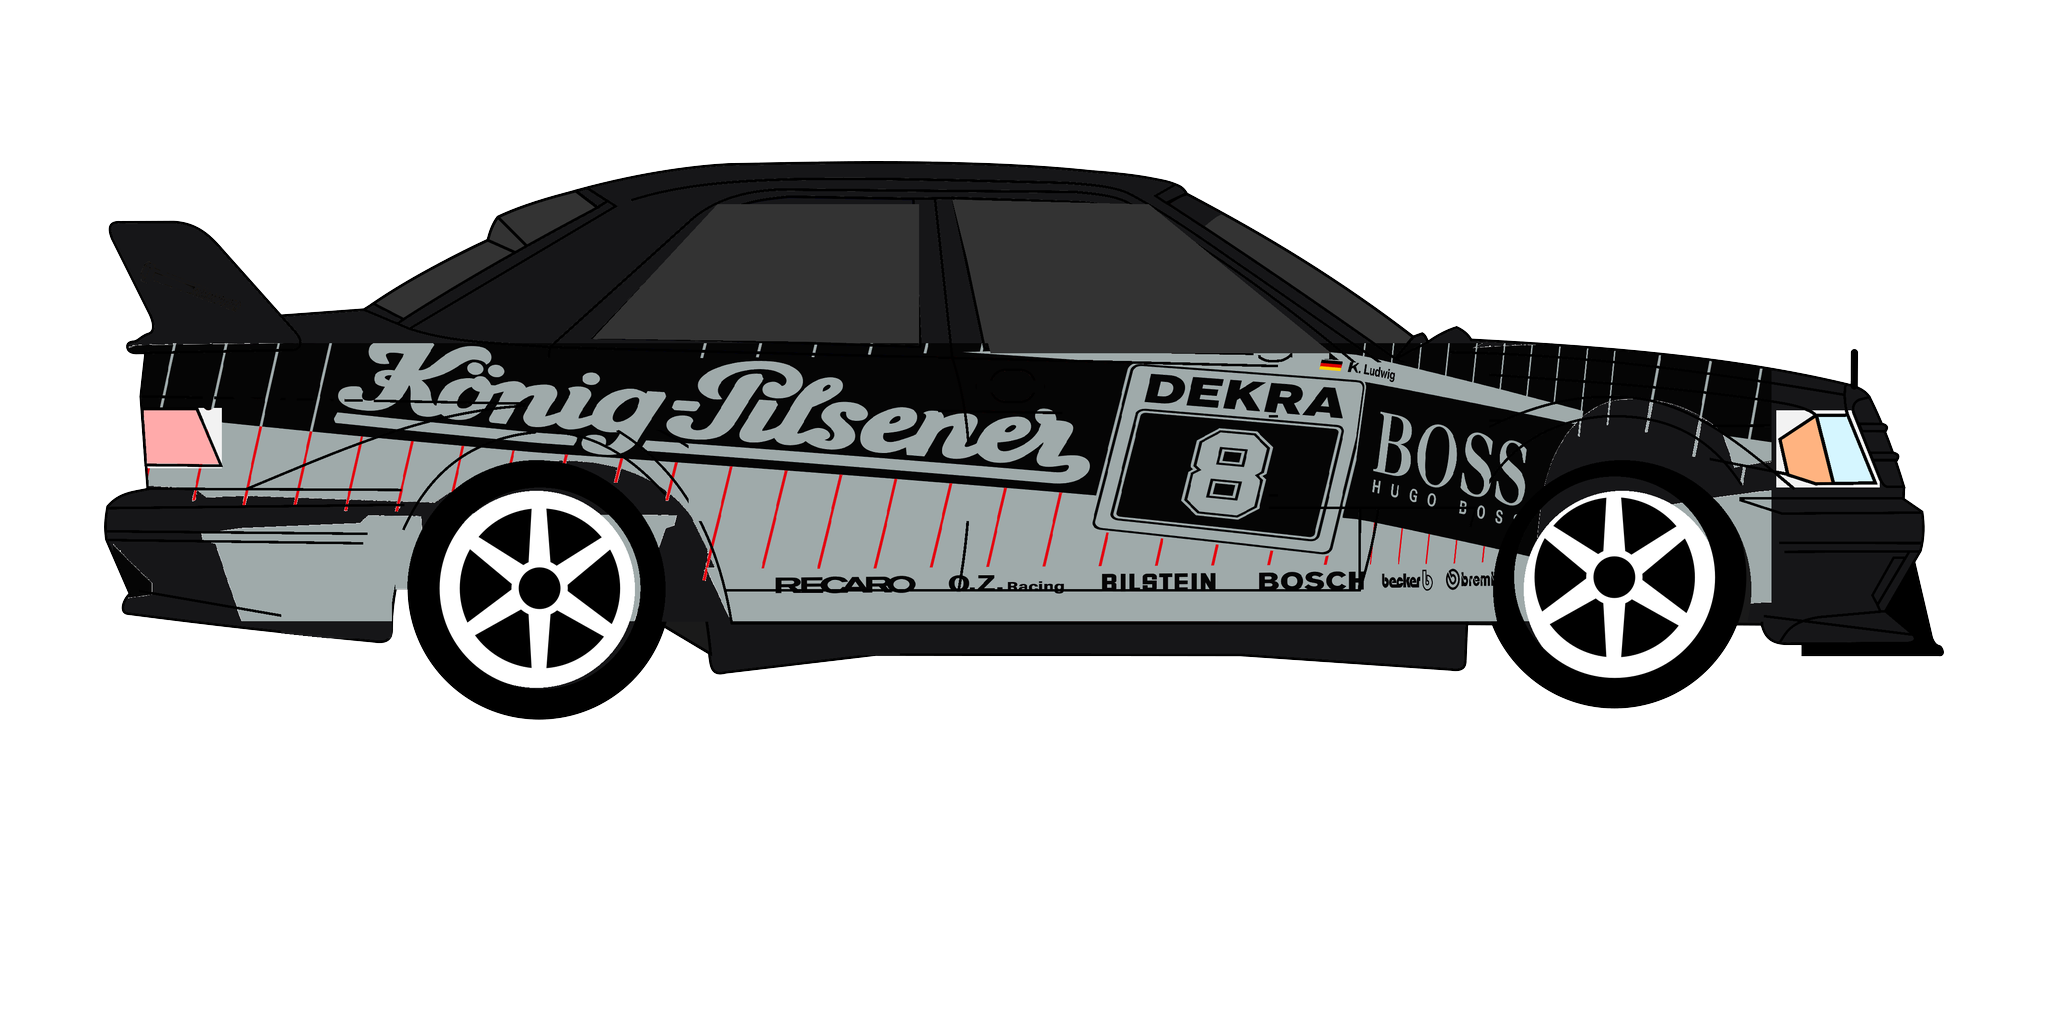
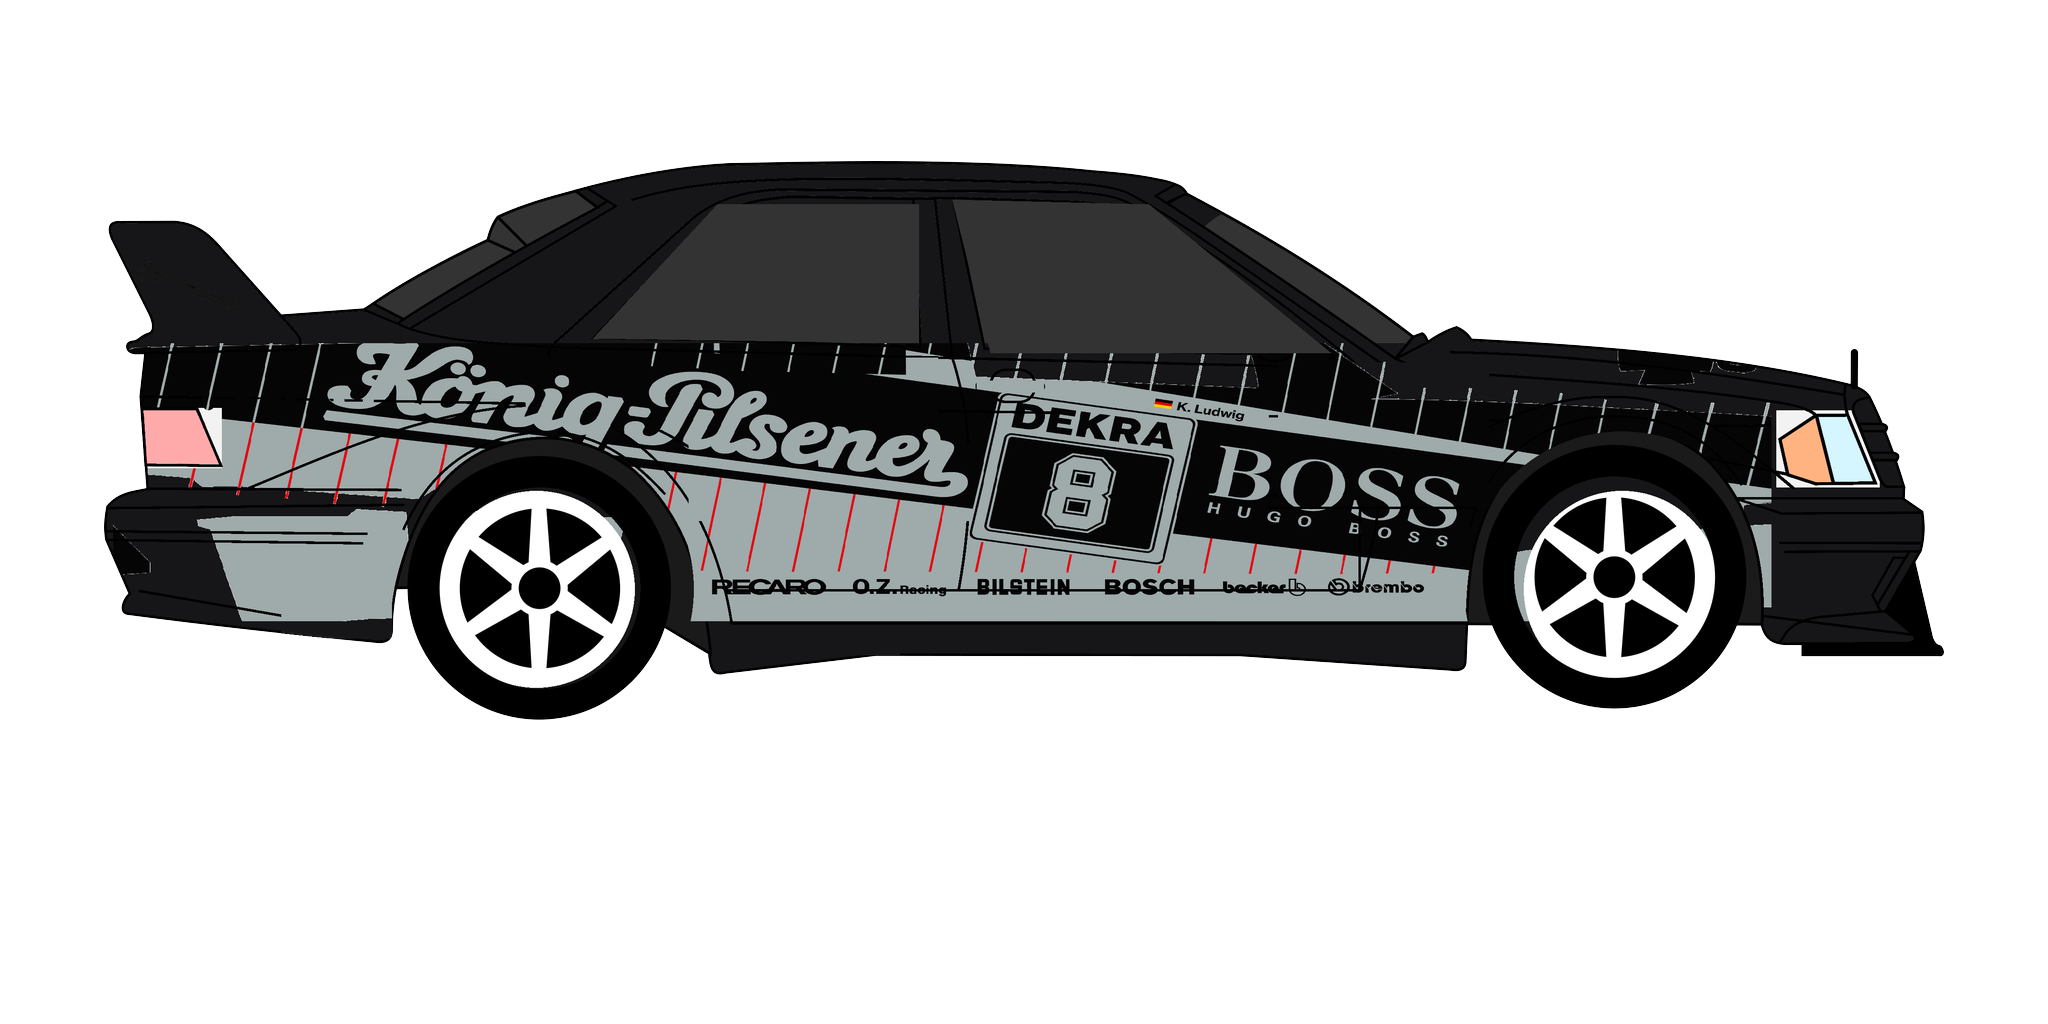
Fix Mercedes livery skew: near-linear texture mapping with constant band

Changed region(s): [[0.0625, 0.3438, 0.875, 0.625]]

diff --git a/seasons/dtm-1991/README.md b/seasons/dtm-1991/README.md
@@ -154,8 +154,6 @@ gives Ludwig #7 in its XML while his car is painted #8.
    south turn and the Wunstorf perimeter road.
 4. **Car images: polish.** All 22 cars are done (`tools/car_art.py`).
    Still to fix:
-   - Mercedes liveries look skewed towards the front on the side doors.
-     Re-measure the 190E texture anchors.
    - Leftover marks from the 1993 reference liveries, such as rear-wing logos.
    - The traced Audi body has less detail than the Pohlmann drawings.
 5. **Logos and menu art.** ✅ Team and engine logos are done
